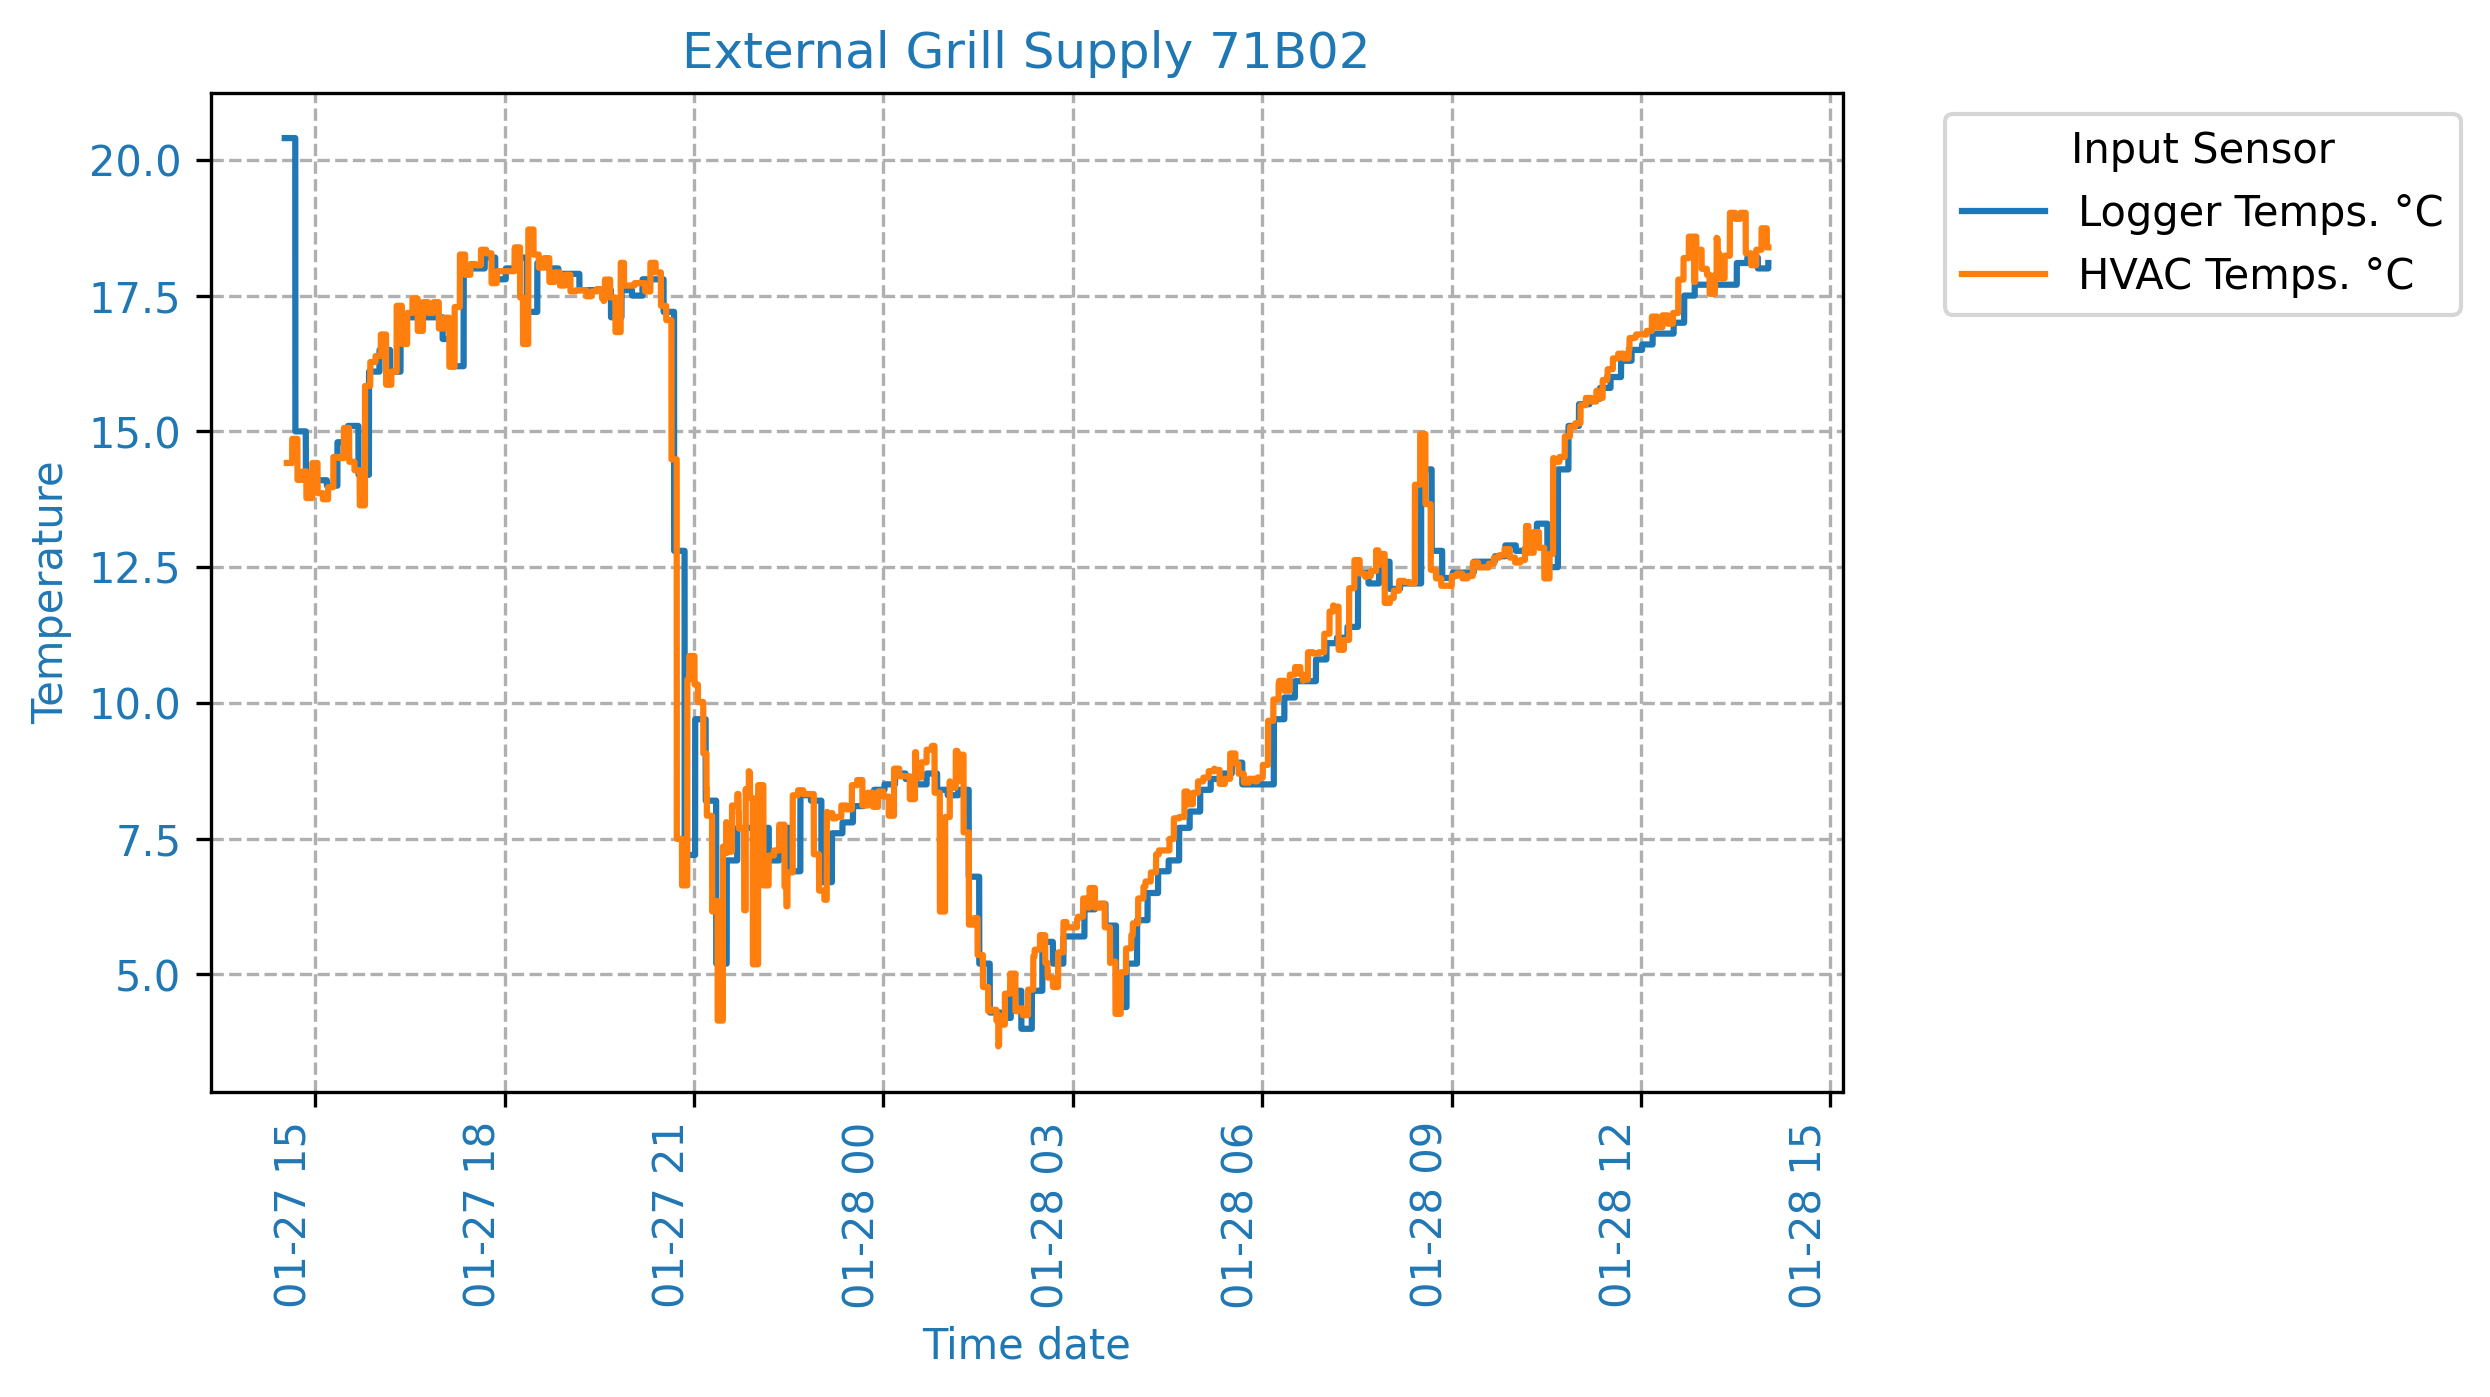
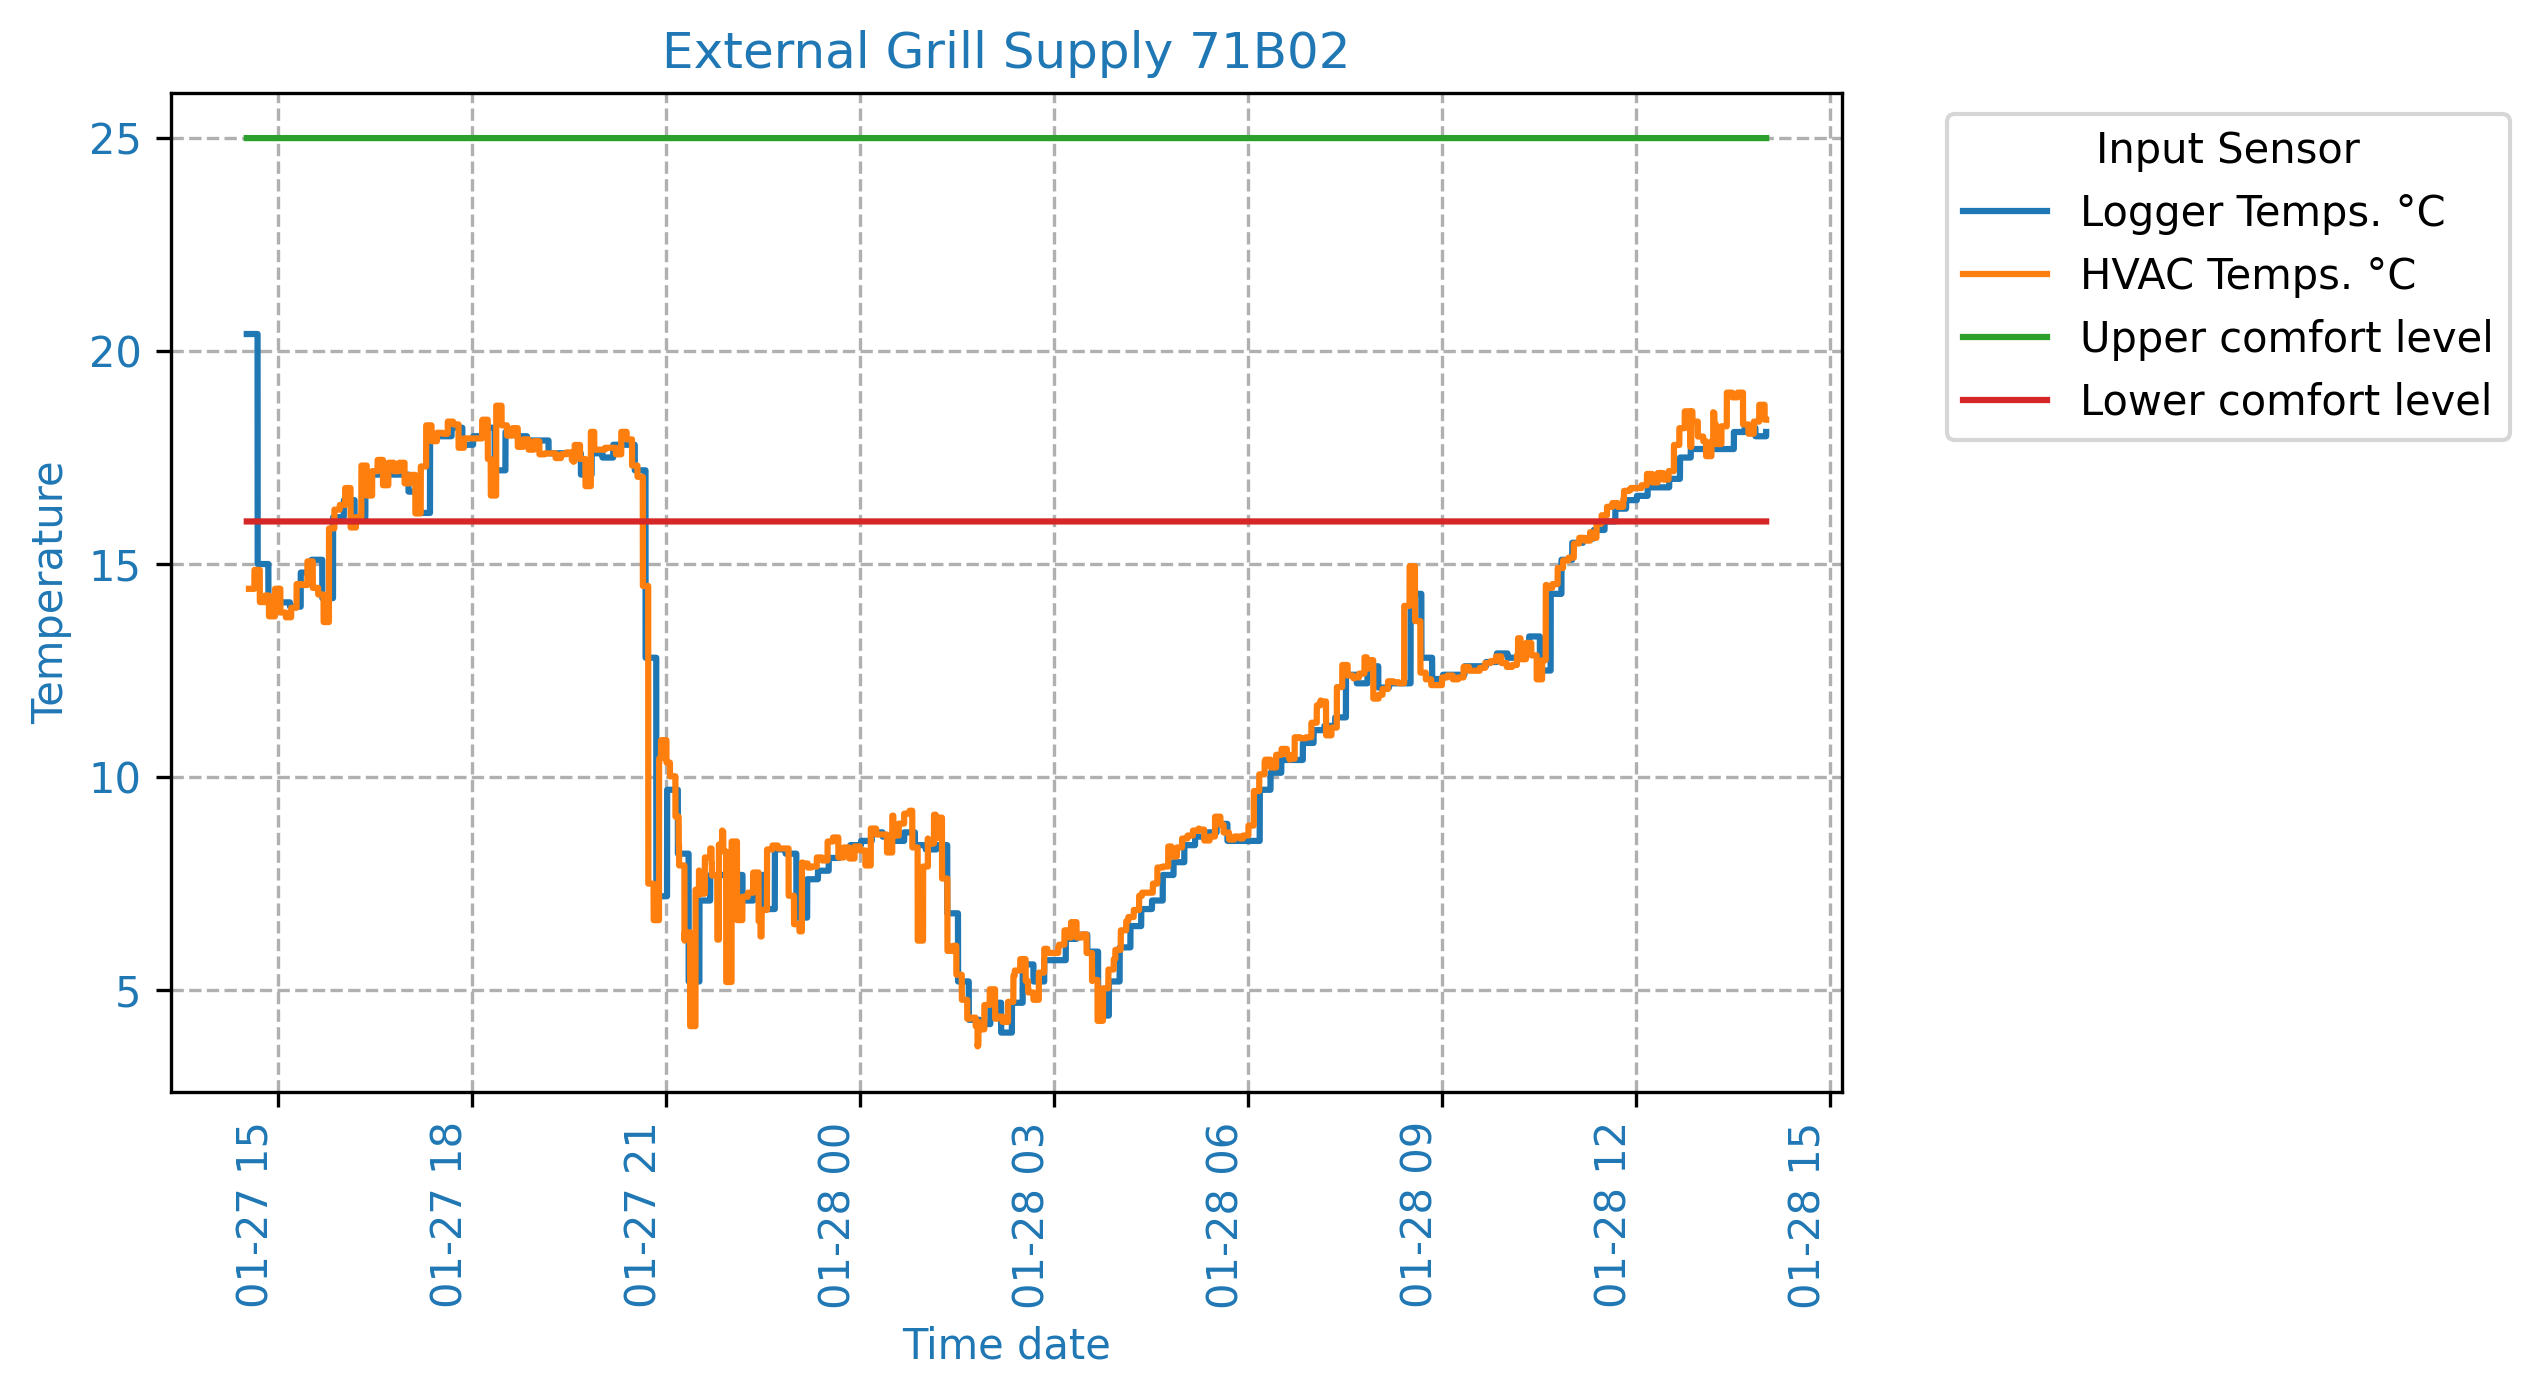
fixed bugs with menus and plotting. everything works now.

diff --git a/Logulator.py b/Logulator.py
@@ -130,18 +130,17 @@ class Logulator:
         return loggerDF
 
     def getDamperData(self):
-        if './damperData.csv' not in os.listdir(self.path):
+        if 'damperData.csv' not in os.listdir(self.path):
             df = self.getAllData()
             damperData = pd.DataFrame()
             damperData['Time date'] = df['Time date']
             damperData['Fresh Air Damper'] = df['FRESH_DAMPER_FEEDBACK']
             damperData['Return Air Damper'] = df['RETURN_DAMPER_FEEDBACK']
             damperData.to_csv("damperData.csv", index=False)
-        else:
-            damperData = pd.read_csv("damperData.csv")
 
+        damperData = pd.read_csv("damperData.csv")
         damperData = self.sortByDateAndReIndex(damperData)
-        damperData = damperData.set_index('Time date')
+        # damperData = damperData.set_index('Time date')
         return damperData
 
     def sortByDateAndReIndex(self, df):
@@ -150,7 +149,7 @@ class Logulator:
         df = df.reset_index(drop=True)  # Reset the index to line up with the sorted data.
         return df
 
-    def makeTempComparisonDF(self):
+    def makeTempComparisonDF(self, upper=25, lower=16):
         """
         Makes an empty DataFrame with a index using date time incrementing by seconds.
         The date range of the index is set by the info from the data logger as this data
@@ -162,19 +161,21 @@ class Logulator:
         start_date = loggerData.index[0]
         end_date = loggerData.index[-1]
         index = pd.date_range(start_date, end=end_date, freq='S')
-        columns = ['Empty']
+        columns = ['Upper comfort level', 'Lower comfort level']
         tempComparison = pd.DataFrame(index=index, columns=columns)
-        temperatureData = df[(df['Time date'] >= loggerData.index[0]) & (df['Time date'] <= loggerData.index[-1])].copy().set_index('Time date')
+        tempComparison['Upper comfort level'] = tempComparison['Upper comfort level'].fillna(upper)
+        tempComparison['Lower comfort level'] = tempComparison['Lower comfort level'].fillna(lower)
+        temperatureData = df[(df['Time date'] >= loggerData.index[0]) &
+                             (df['Time date'] <= loggerData.index[-1])].copy().set_index('Time date')
         tempComparison = loggerData.combine_first(tempComparison)
         tempComparison = temperatureData.combine_first(tempComparison)
-        del tempComparison['Empty']
         return tempComparison
 
 
 class TempLogger(Logulator):
     def plotTemperatures(self):
         temperatureData = Logulator.getTempData(self)
-        dfTemp = temperatureData.copy()
+        dfTemp = temperatureData.copy().set_index('Time date')
         dfTemp.plot(kind='line', legend=None)
         plt.xticks(color='C0', rotation='vertical')
         plt.xlabel('Time date', color='C0', size=10)
@@ -195,18 +196,18 @@ class DampLogger(Logulator):
     def plotDamperPositions(self):
         damperData = Logulator.getDamperData(self)
 
-        dfTemp = damperData.copy()
+        dfTemp = damperData.copy().set_index('Time date')
         dfTemp.plot(kind='line', legend=None)
         plt.xticks(color='C0', rotation='vertical')
         plt.xlabel('Time date', color='C0', size=10)
         plt.yticks(color='C0')
         plt.tight_layout(pad=2)
         plt.title('HVAC Temperatures', color='C0')
-        plt.ylabel('Temperature', color='C0', size=10)
+        plt.ylabel('% Percentage Open', color='C0', size=10)
         plt.grid('on', linestyle='--')
-        lgd = plt.legend(title='Channel', bbox_to_anchor=(1.05, 1))
-
-        plt.savefig('myfig100.png', dpi=300, facecolor='w', edgecolor='w',
+        lgd = plt.legend(title='Damper Position %', bbox_to_anchor=(1.05, 1))
+        imageName = ('Damper Position Data ' + str(dfTemp.index[0]) + '.png').replace(' ', '_').replace(':', '')
+        plt.savefig(imageName, dpi=300, facecolor='w', edgecolor='w',
                     orientation='landscape', format=None, bbox_extra_artists=(lgd,), bbox_inches='tight',
                     transparent=False, pad_inches=0.1)
         plt.show()
@@ -244,6 +245,8 @@ class DataLoggerTemperatures(Logulator):
         # ffill will fill in the NaN gaps with previous data
         dfTemps['Logger Temps. °C'] = tempComparison['Logger Temp. °C'].ffill()
         dfTemps['HVAC Temps. °C'] = tempComparison[sensorToTest].ffill()
+        dfTemps['Upper comfort level'] = tempComparison['Upper comfort level']
+        dfTemps['Lower comfort level'] = tempComparison['Lower comfort level']
         dfTemps.plot(kind='line', legend=None)
         plt.xticks(color='C0', rotation='vertical')
         plt.xlabel('Time date', color='C0', size=10)
@@ -261,7 +264,6 @@ class DataLoggerTemperatures(Logulator):
         plt.show()
 
 
-
 def main():
     choice = 0
     temp = TempLogger()
@@ -269,11 +271,11 @@ def main():
     dataLog = DataLoggerTemperatures()
 
     print("""
-Choose operation:
-    1. Plot HVAC temperatures
-    2. Plot Damper data
-    3. Plot DataLogger file
-    4. Plot DataLogger file on top of HVAC sensor
+    Choose operation:
+        1. Plot HVAC temperatures
+        2. Plot Damper data
+        3. Plot DataLogger file
+        4. Plot DataLogger file on top of HVAC sensor
     """)
     choice = int(input("Enter choice: "))
     os.system('cls')
@@ -285,13 +287,13 @@ Choose operation:
         dataLog.plotDataLoggerTemps()
     elif choice == 4:
         print("""
-Choose sensor to map:
-    1. 71B01    Return floor sensor
-    2. 71B02    External Grill supply
-    3. 71B03    E1 Vestibule
-    4. 71B04    E2 Vestibule
-    5. 71B05    Guard's rest room
-    6. 71B06    Guard's control room
+    Choose sensor to map:
+        1. 71B01    Return floor sensor
+        2. 71B02    External Grill supply
+        3. 71B03    E1 Vestibule
+        4. 71B04    E2 Vestibule
+        5. 71B05    Guard's rest room
+        6. 71B06    Guard's control room
         """)
         dataLog.plotDataLoggerOverHVAC(input("Sensor: "))
 
